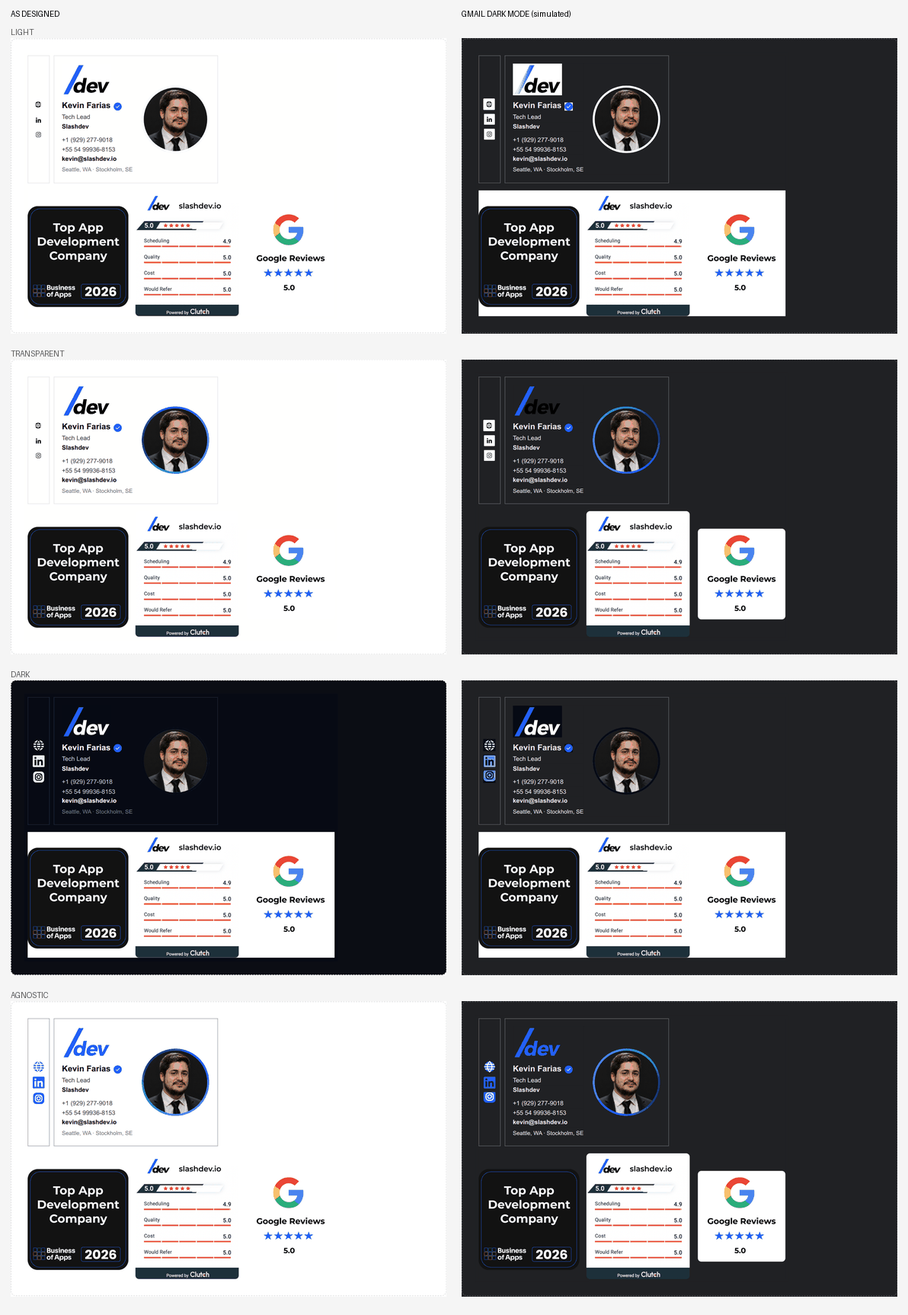
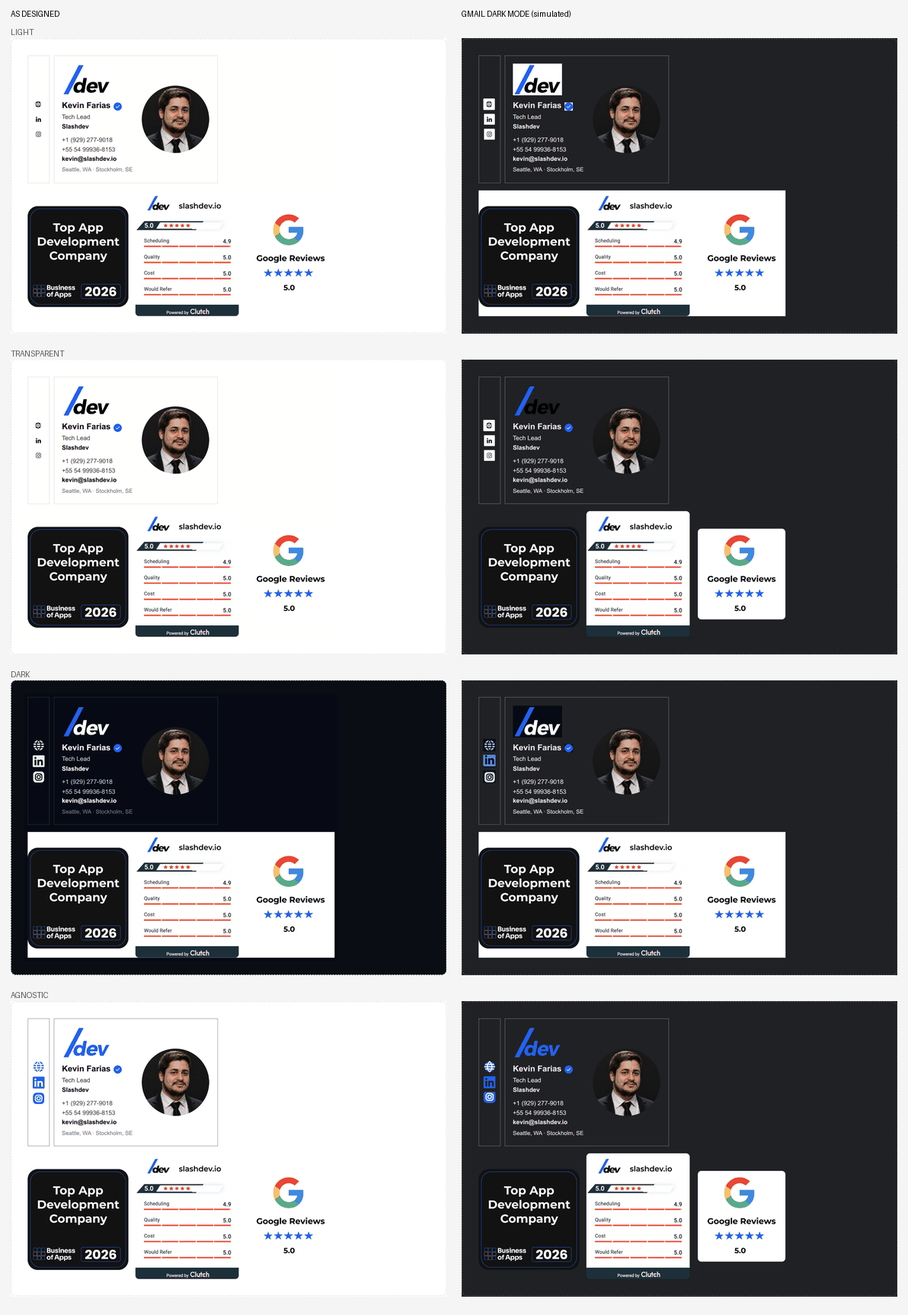
michael-light: drop the rotating ring, plain circular portrait instead
The ring was carried over from the aurora concepts and never asked for; it read
as unprofessional and it caused most of the recent trouble. The portrait is now
a static circular PNG generated straight from the source photo.

That is better on every axis. PNG alpha is 8-bit, so the edge is properly
antialiased instead of the 1-bit stair-step a GIF gives; one file works on any
background, so the avatar stops being a dark-mode problem at all; and it is
smaller — 79 KB / 111 KB against 154 KB / 162 KB for the ring GIFs, and against
the 0.9-1.2 MB the transparent ring variants weighed.

Removes the six avatar bake jobs and the four unpublished ring variants
(-t / -d). avatar-ring.gif and avatar-ring-kevin.gif are kept even though nothing
references them: they are already on Pages and any signature already pasted into
Gmail still points at them. Assets are down from 4.4 MB to 2.1 MB.

diff --git a/michael-light/dark-mode-test.html b/michael-light/dark-mode-test.html
@@ -32,7 +32,7 @@ a{color:#215ff6}</style></head>
   <td width="6" style="margin:0.1px;line-height:1px;font-size:1px">&nbsp;</td>
   <td align="left" valign="middle" style="margin:0.1px"><img alt="verified" src="https://fvlabs.github.io/michael-signatures/michael-light/assets/badge-verified.gif" width="16" height="16" style="margin:0.1px;padding:0;border:0;display:block;max-width:100%;"></td>
 </tr></tbody></table></td></tr><tr><td style="margin:0.1px;padding:3px 0 0 0;line-height:17px"><span style="margin:0;padding:0;border:0;font-family:Inter,'Helvetica Neue',Helvetica,Arial,sans-serif;font-size:12px;font-weight:normal;color:#3f3f46">Tech Lead</span></td></tr><tr><td style="margin:0.1px;padding:1px 0 0 0;line-height:17px"><span style="margin:0;padding:0;border:0;font-family:Inter,'Helvetica Neue',Helvetica,Arial,sans-serif;font-size:12px;font-weight:bold;color:#09090b">Slashdev</span></td></tr><tr><td style="margin:0.1px;padding:8px 0 0 0;line-height:17px"><a href="tel:+19292779018" target="_blank" style="margin:0;padding:0;border:0;text-decoration:none;font-family:Inter,'Helvetica Neue',Helvetica,Arial,sans-serif;font-size:12px;font-weight:normal;color:#3f3f46">+1 (929) 277-9018</a></td></tr><tr><td style="margin:0.1px;padding:1px 0 0 0;line-height:17px"><a href="tel:+5554999368153" target="_blank" style="margin:0;padding:0;border:0;text-decoration:none;font-family:Inter,'Helvetica Neue',Helvetica,Arial,sans-serif;font-size:12px;font-weight:normal;color:#3f3f46">+55 54 99936-8153</a></td></tr><tr><td style="margin:0.1px;padding:0;line-height:17px"><a href="mailto:kevin@slashdev.io" target="_blank" style="margin:0;padding:0;border:0;text-decoration:none;font-family:Inter,'Helvetica Neue',Helvetica,Arial,sans-serif;font-size:12px;font-weight:bold;color:#09090b">kevin@slashdev.io</a></td></tr><tr><td style="margin:0.1px;padding:4px 0 0 0;line-height:17px"><span style="margin:0;padding:0;border:0;font-family:Inter,'Helvetica Neue',Helvetica,Arial,sans-serif;font-size:11px;font-weight:normal;color:#71717a">Seattle, WA &middot; Stockholm, SE</span></td></tr></tbody></table></td>
-    <td align="left" valign="middle" style="margin:0.1px;padding:0 0 0 18px"><img alt="Kevin Farias" src="https://fvlabs.github.io/michael-signatures/michael-light/assets/avatar-ring-kevin.gif" width="132" height="132" style="margin:0.1px;padding:0;border:0;display:block;max-width:100%;border-radius:200px"></td>
+    <td align="left" valign="middle" style="margin:0.1px;padding:0 0 0 18px"><img alt="Kevin Farias" src="https://fvlabs.github.io/michael-signatures/michael-light/assets/avatar-kevin-round.png" width="132" height="132" style="margin:0.1px;padding:0;border:0;display:block;max-width:100%;border-radius:200px"></td>
   </tr></tbody></table></td>
 </tr></tbody></table></td></tr><tr><td style="margin:0.1px;padding:14px 0 0 0;line-height:17px"><a href="https://slashdev.io" target="_blank" style="margin:0;padding:0;border:0;text-decoration:none"><img alt="Top App Development Company 2026 (Business of Apps) — Clutch 5.0 — Google Reviews 5.0" src="https://fvlabs.github.io/michael-signatures/michael-light/assets/awards-2026.png" width="600" height="246" style="margin:0.1px;padding:0;border:0;display:block;max-width:100%;"></a></td></tr></tbody></table></td></tr></tbody></table>
 <!-- ===== END (LIGHT) ===== -->
@@ -53,7 +53,7 @@ a{color:#215ff6}</style></head>
   <td width="6" style="margin:0.1px;line-height:1px;font-size:1px">&nbsp;</td>
   <td align="left" valign="middle" style="margin:0.1px"><img alt="verified" src="https://fvlabs.github.io/michael-signatures/michael-light/assets/badge-verified-t.gif" width="16" height="16" style="margin:0.1px;padding:0;border:0;display:block;max-width:100%;"></td>
 </tr></tbody></table></td></tr><tr><td style="margin:0.1px;padding:3px 0 0 0;line-height:17px"><span style="margin:0;padding:0;border:0;font-family:Inter,'Helvetica Neue',Helvetica,Arial,sans-serif;font-size:12px;font-weight:normal;color:#3f3f46">Tech Lead</span></td></tr><tr><td style="margin:0.1px;padding:1px 0 0 0;line-height:17px"><span style="margin:0;padding:0;border:0;font-family:Inter,'Helvetica Neue',Helvetica,Arial,sans-serif;font-size:12px;font-weight:bold;color:#09090b">Slashdev</span></td></tr><tr><td style="margin:0.1px;padding:8px 0 0 0;line-height:17px"><a href="tel:+19292779018" target="_blank" style="margin:0;padding:0;border:0;text-decoration:none;font-family:Inter,'Helvetica Neue',Helvetica,Arial,sans-serif;font-size:12px;font-weight:normal;color:#3f3f46">+1 (929) 277-9018</a></td></tr><tr><td style="margin:0.1px;padding:1px 0 0 0;line-height:17px"><a href="tel:+5554999368153" target="_blank" style="margin:0;padding:0;border:0;text-decoration:none;font-family:Inter,'Helvetica Neue',Helvetica,Arial,sans-serif;font-size:12px;font-weight:normal;color:#3f3f46">+55 54 99936-8153</a></td></tr><tr><td style="margin:0.1px;padding:0;line-height:17px"><a href="mailto:kevin@slashdev.io" target="_blank" style="margin:0;padding:0;border:0;text-decoration:none;font-family:Inter,'Helvetica Neue',Helvetica,Arial,sans-serif;font-size:12px;font-weight:bold;color:#09090b">kevin@slashdev.io</a></td></tr><tr><td style="margin:0.1px;padding:4px 0 0 0;line-height:17px"><span style="margin:0;padding:0;border:0;font-family:Inter,'Helvetica Neue',Helvetica,Arial,sans-serif;font-size:11px;font-weight:normal;color:#71717a">Seattle, WA &middot; Stockholm, SE</span></td></tr></tbody></table></td>
-    <td align="left" valign="middle" style="margin:0.1px;padding:0 0 0 18px"><img alt="Kevin Farias" src="https://fvlabs.github.io/michael-signatures/michael-light/assets/avatar-ring-kevin-t.gif" width="132" height="132" style="margin:0.1px;padding:0;border:0;display:block;max-width:100%;border-radius:200px"></td>
+    <td align="left" valign="middle" style="margin:0.1px;padding:0 0 0 18px"><img alt="Kevin Farias" src="https://fvlabs.github.io/michael-signatures/michael-light/assets/avatar-kevin-round.png" width="132" height="132" style="margin:0.1px;padding:0;border:0;display:block;max-width:100%;border-radius:200px"></td>
   </tr></tbody></table></td>
 </tr></tbody></table></td></tr><tr><td style="margin:0.1px;padding:14px 0 0 0;line-height:17px"><a href="https://slashdev.io" target="_blank" style="margin:0;padding:0;border:0;text-decoration:none"><img alt="Top App Development Company 2026 (Business of Apps) — Clutch 5.0 — Google Reviews 5.0" src="https://fvlabs.github.io/michael-signatures/michael-light/assets/awards-2026-t.png" width="600" height="246" style="margin:0.1px;padding:0;border:0;display:block;max-width:100%;"></a></td></tr></tbody></table></td></tr></tbody></table>
 <!-- ===== END (TRANSPARENT) ===== -->
@@ -74,7 +74,7 @@ a{color:#215ff6}</style></head>
   <td width="6" style="margin:0.1px;line-height:1px;font-size:1px">&nbsp;</td>
   <td align="left" valign="middle" style="margin:0.1px"><img alt="verified" src="https://fvlabs.github.io/michael-signatures/michael-light/assets/badge-verified-d.gif" width="16" height="16" style="margin:0.1px;padding:0;border:0;display:block;max-width:100%;"></td>
 </tr></tbody></table></td></tr><tr><td style="margin:0.1px;padding:3px 0 0 0;line-height:17px"><span style="margin:0;padding:0;border:0;font-family:Inter,'Helvetica Neue',Helvetica,Arial,sans-serif;font-size:12px;font-weight:normal;color:#c3cbdc">Tech Lead</span></td></tr><tr><td style="margin:0.1px;padding:1px 0 0 0;line-height:17px"><span style="margin:0;padding:0;border:0;font-family:Inter,'Helvetica Neue',Helvetica,Arial,sans-serif;font-size:12px;font-weight:bold;color:#ffffff">Slashdev</span></td></tr><tr><td style="margin:0.1px;padding:8px 0 0 0;line-height:17px"><a href="tel:+19292779018" target="_blank" style="margin:0;padding:0;border:0;text-decoration:none;font-family:Inter,'Helvetica Neue',Helvetica,Arial,sans-serif;font-size:12px;font-weight:normal;color:#c3cbdc">+1 (929) 277-9018</a></td></tr><tr><td style="margin:0.1px;padding:1px 0 0 0;line-height:17px"><a href="tel:+5554999368153" target="_blank" style="margin:0;padding:0;border:0;text-decoration:none;font-family:Inter,'Helvetica Neue',Helvetica,Arial,sans-serif;font-size:12px;font-weight:normal;color:#c3cbdc">+55 54 99936-8153</a></td></tr><tr><td style="margin:0.1px;padding:0;line-height:17px"><a href="mailto:kevin@slashdev.io" target="_blank" style="margin:0;padding:0;border:0;text-decoration:none;font-family:Inter,'Helvetica Neue',Helvetica,Arial,sans-serif;font-size:12px;font-weight:bold;color:#ffffff">kevin@slashdev.io</a></td></tr><tr><td style="margin:0.1px;padding:4px 0 0 0;line-height:17px"><span style="margin:0;padding:0;border:0;font-family:Inter,'Helvetica Neue',Helvetica,Arial,sans-serif;font-size:11px;font-weight:normal;color:#727b91">Seattle, WA &middot; Stockholm, SE</span></td></tr></tbody></table></td>
-    <td align="left" valign="middle" style="margin:0.1px;padding:0 0 0 18px"><img alt="Kevin Farias" src="https://fvlabs.github.io/michael-signatures/michael-light/assets/avatar-ring-kevin-d.gif" width="132" height="132" style="margin:0.1px;padding:0;border:0;display:block;max-width:100%;border-radius:200px"></td>
+    <td align="left" valign="middle" style="margin:0.1px;padding:0 0 0 18px"><img alt="Kevin Farias" src="https://fvlabs.github.io/michael-signatures/michael-light/assets/avatar-kevin-round.png" width="132" height="132" style="margin:0.1px;padding:0;border:0;display:block;max-width:100%;border-radius:200px"></td>
   </tr></tbody></table></td>
 </tr></tbody></table></td></tr><tr><td style="margin:0.1px;padding:14px 0 0 0;line-height:17px"><a href="https://slashdev.io" target="_blank" style="margin:0;padding:0;border:0;text-decoration:none"><img alt="Top App Development Company 2026 (Business of Apps) — Clutch 5.0 — Google Reviews 5.0" src="https://fvlabs.github.io/michael-signatures/michael-light/assets/awards-2026.png" width="600" height="246" style="margin:0.1px;padding:0;border:0;display:block;max-width:100%;"></a></td></tr></tbody></table></td></tr></tbody></table>
 <!-- ===== END (DARK) ===== -->
@@ -95,7 +95,7 @@ a{color:#215ff6}</style></head>
   <td width="6" style="margin:0.1px;line-height:1px;font-size:1px">&nbsp;</td>
   <td align="left" valign="middle" style="margin:0.1px"><img alt="verified" src="https://fvlabs.github.io/michael-signatures/michael-light/assets/badge-verified-t.gif" width="16" height="16" style="margin:0.1px;padding:0;border:0;display:block;max-width:100%;"></td>
 </tr></tbody></table></td></tr><tr><td style="margin:0.1px;padding:3px 0 0 0;line-height:17px"><span style="margin:0;padding:0;border:0;font-family:Inter,'Helvetica Neue',Helvetica,Arial,sans-serif;font-size:12px;font-weight:normal;color:#3f3f46">Tech Lead</span></td></tr><tr><td style="margin:0.1px;padding:1px 0 0 0;line-height:17px"><span style="margin:0;padding:0;border:0;font-family:Inter,'Helvetica Neue',Helvetica,Arial,sans-serif;font-size:12px;font-weight:bold;color:#09090b">Slashdev</span></td></tr><tr><td style="margin:0.1px;padding:8px 0 0 0;line-height:17px"><a href="tel:+19292779018" target="_blank" style="margin:0;padding:0;border:0;text-decoration:none;font-family:Inter,'Helvetica Neue',Helvetica,Arial,sans-serif;font-size:12px;font-weight:normal;color:#3f3f46">+1 (929) 277-9018</a></td></tr><tr><td style="margin:0.1px;padding:1px 0 0 0;line-height:17px"><a href="tel:+5554999368153" target="_blank" style="margin:0;padding:0;border:0;text-decoration:none;font-family:Inter,'Helvetica Neue',Helvetica,Arial,sans-serif;font-size:12px;font-weight:normal;color:#3f3f46">+55 54 99936-8153</a></td></tr><tr><td style="margin:0.1px;padding:0;line-height:17px"><a href="mailto:kevin@slashdev.io" target="_blank" style="margin:0;padding:0;border:0;text-decoration:none;font-family:Inter,'Helvetica Neue',Helvetica,Arial,sans-serif;font-size:12px;font-weight:bold;color:#09090b">kevin@slashdev.io</a></td></tr><tr><td style="margin:0.1px;padding:4px 0 0 0;line-height:17px"><span style="margin:0;padding:0;border:0;font-family:Inter,'Helvetica Neue',Helvetica,Arial,sans-serif;font-size:11px;font-weight:normal;color:#71717a">Seattle, WA &middot; Stockholm, SE</span></td></tr></tbody></table></td>
-    <td align="left" valign="middle" style="margin:0.1px;padding:0 0 0 18px"><img alt="Kevin Farias" src="https://fvlabs.github.io/michael-signatures/michael-light/assets/avatar-ring-kevin-t.gif" width="132" height="132" style="margin:0.1px;padding:0;border:0;display:block;max-width:100%;border-radius:200px"></td>
+    <td align="left" valign="middle" style="margin:0.1px;padding:0 0 0 18px"><img alt="Kevin Farias" src="https://fvlabs.github.io/michael-signatures/michael-light/assets/avatar-kevin-round.png" width="132" height="132" style="margin:0.1px;padding:0;border:0;display:block;max-width:100%;border-radius:200px"></td>
   </tr></tbody></table></td>
 </tr></tbody></table></td></tr><tr><td style="margin:0.1px;padding:14px 0 0 0;line-height:17px"><a href="https://slashdev.io" target="_blank" style="margin:0;padding:0;border:0;text-decoration:none"><img alt="Top App Development Company 2026 (Business of Apps) — Clutch 5.0 — Google Reviews 5.0" src="https://fvlabs.github.io/michael-signatures/michael-light/assets/awards-2026-t.png" width="600" height="246" style="margin:0.1px;padding:0;border:0;display:block;max-width:100%;"></a></td></tr></tbody></table></td></tr></tbody></table>
 <!-- ===== END (AGNOSTIC) ===== -->

diff --git a/michael-light/L1-two-panel.html b/michael-light/L1-two-panel.html
@@ -29,7 +29,7 @@ a{color:#215ff6}</style></head>
   <td width="6" style="margin:0.1px;line-height:1px;font-size:1px">&nbsp;</td>
   <td align="left" valign="middle" style="margin:0.1px"><img alt="verified" src="https://fvlabs.github.io/michael-signatures/michael-light/assets/badge-verified.gif" width="16" height="16" style="margin:0.1px;padding:0;border:0;display:block;max-width:100%;"></td>
 </tr></tbody></table></td></tr><tr><td style="margin:0.1px;padding:3px 0 0 0;line-height:17px"><span style="margin:0;padding:0;border:0;font-family:Inter,'Helvetica Neue',Helvetica,Arial,sans-serif;font-size:12px;font-weight:normal;color:#3f3f46">Founder &amp; CEO</span></td></tr><tr><td style="margin:0.1px;padding:1px 0 0 0;line-height:17px"><span style="margin:0;padding:0;border:0;font-family:Inter,'Helvetica Neue',Helvetica,Arial,sans-serif;font-size:12px;font-weight:bold;color:#09090b">Slashdev</span></td></tr><tr><td style="margin:0.1px;padding:8px 0 0 0;line-height:17px"><a href="tel:+19292779018" target="_blank" style="margin:0;padding:0;border:0;text-decoration:none;font-family:Inter,'Helvetica Neue',Helvetica,Arial,sans-serif;font-size:12px;font-weight:normal;color:#3f3f46">+1 (929) 277-9018</a></td></tr><tr><td style="margin:0.1px;padding:1px 0 0 0;line-height:17px"><a href="tel:+46703688988" target="_blank" style="margin:0;padding:0;border:0;text-decoration:none;font-family:Inter,'Helvetica Neue',Helvetica,Arial,sans-serif;font-size:12px;font-weight:normal;color:#3f3f46">+46 70 368 8988</a></td></tr><tr><td style="margin:0.1px;padding:0;line-height:17px"><a href="mailto:michael@slashdev.io" target="_blank" style="margin:0;padding:0;border:0;text-decoration:none;font-family:Inter,'Helvetica Neue',Helvetica,Arial,sans-serif;font-size:12px;font-weight:bold;color:#09090b">michael@slashdev.io</a></td></tr><tr><td style="margin:0.1px;padding:4px 0 0 0;line-height:17px"><span style="margin:0;padding:0;border:0;font-family:Inter,'Helvetica Neue',Helvetica,Arial,sans-serif;font-size:11px;font-weight:normal;color:#71717a">Seattle, WA &middot; Stockholm, SE</span></td></tr></tbody></table></td>
-    <td align="left" valign="middle" style="margin:0.1px;padding:0 0 0 18px"><img alt="Michael Ballard" src="https://fvlabs.github.io/michael-signatures/michael-light/assets/avatar-ring.gif" width="132" height="132" style="margin:0.1px;padding:0;border:0;display:block;max-width:100%;border-radius:200px"></td>
+    <td align="left" valign="middle" style="margin:0.1px;padding:0 0 0 18px"><img alt="Michael Ballard" src="https://fvlabs.github.io/michael-signatures/michael-light/assets/avatar-michael-round.png" width="132" height="132" style="margin:0.1px;padding:0;border:0;display:block;max-width:100%;border-radius:200px"></td>
   </tr></tbody></table></td>
 </tr></tbody></table></td></tr><tr><td style="margin:0.1px;padding:14px 0 0 0;line-height:17px"><a href="https://slashdev.io" target="_blank" style="margin:0;padding:0;border:0;text-decoration:none"><img alt="Top App Development Company 2026 (Business of Apps) — Clutch 5.0 — Google Reviews 5.0" src="https://fvlabs.github.io/michael-signatures/michael-light/assets/awards-2026.png" width="600" height="246" style="margin:0.1px;padding:0;border:0;display:block;max-width:100%;"></a></td></tr></tbody></table></td></tr></tbody></table>
 <!-- ===== END (MICHAEL) ===== -->
@@ -49,7 +49,7 @@ a{color:#215ff6}</style></head>
   <td width="6" style="margin:0.1px;line-height:1px;font-size:1px">&nbsp;</td>
   <td align="left" valign="middle" style="margin:0.1px"><img alt="verified" src="https://fvlabs.github.io/michael-signatures/michael-light/assets/badge-verified.gif" width="16" height="16" style="margin:0.1px;padding:0;border:0;display:block;max-width:100%;"></td>
 </tr></tbody></table></td></tr><tr><td style="margin:0.1px;padding:3px 0 0 0;line-height:17px"><span style="margin:0;padding:0;border:0;font-family:Inter,'Helvetica Neue',Helvetica,Arial,sans-serif;font-size:12px;font-weight:normal;color:#3f3f46">Tech Lead</span></td></tr><tr><td style="margin:0.1px;padding:1px 0 0 0;line-height:17px"><span style="margin:0;padding:0;border:0;font-family:Inter,'Helvetica Neue',Helvetica,Arial,sans-serif;font-size:12px;font-weight:bold;color:#09090b">Slashdev</span></td></tr><tr><td style="margin:0.1px;padding:8px 0 0 0;line-height:17px"><a href="tel:+19292779018" target="_blank" style="margin:0;padding:0;border:0;text-decoration:none;font-family:Inter,'Helvetica Neue',Helvetica,Arial,sans-serif;font-size:12px;font-weight:normal;color:#3f3f46">+1 (929) 277-9018</a></td></tr><tr><td style="margin:0.1px;padding:1px 0 0 0;line-height:17px"><a href="tel:+5554999368153" target="_blank" style="margin:0;padding:0;border:0;text-decoration:none;font-family:Inter,'Helvetica Neue',Helvetica,Arial,sans-serif;font-size:12px;font-weight:normal;color:#3f3f46">+55 54 99936-8153</a></td></tr><tr><td style="margin:0.1px;padding:0;line-height:17px"><a href="mailto:kevin@slashdev.io" target="_blank" style="margin:0;padding:0;border:0;text-decoration:none;font-family:Inter,'Helvetica Neue',Helvetica,Arial,sans-serif;font-size:12px;font-weight:bold;color:#09090b">kevin@slashdev.io</a></td></tr><tr><td style="margin:0.1px;padding:4px 0 0 0;line-height:17px"><span style="margin:0;padding:0;border:0;font-family:Inter,'Helvetica Neue',Helvetica,Arial,sans-serif;font-size:11px;font-weight:normal;color:#71717a">Seattle, WA &middot; Stockholm, SE</span></td></tr></tbody></table></td>
-    <td align="left" valign="middle" style="margin:0.1px;padding:0 0 0 18px"><img alt="Kevin Farias" src="https://fvlabs.github.io/michael-signatures/michael-light/assets/avatar-ring-kevin.gif" width="132" height="132" style="margin:0.1px;padding:0;border:0;display:block;max-width:100%;border-radius:200px"></td>
+    <td align="left" valign="middle" style="margin:0.1px;padding:0 0 0 18px"><img alt="Kevin Farias" src="https://fvlabs.github.io/michael-signatures/michael-light/assets/avatar-kevin-round.png" width="132" height="132" style="margin:0.1px;padding:0;border:0;display:block;max-width:100%;border-radius:200px"></td>
   </tr></tbody></table></td>
 </tr></tbody></table></td></tr><tr><td style="margin:0.1px;padding:14px 0 0 0;line-height:17px"><a href="https://slashdev.io" target="_blank" style="margin:0;padding:0;border:0;text-decoration:none"><img alt="Top App Development Company 2026 (Business of Apps) — Clutch 5.0 — Google Reviews 5.0" src="https://fvlabs.github.io/michael-signatures/michael-light/assets/awards-2026.png" width="600" height="246" style="margin:0.1px;padding:0;border:0;display:block;max-width:100%;"></a></td></tr></tbody></table></td></tr></tbody></table>
 <!-- ===== END (KEVIN) ===== -->

diff --git a/michael-light/index.html b/michael-light/index.html
@@ -29,7 +29,7 @@ a{color:#215ff6}</style></head>
   <td width="6" style="margin:0.1px;line-height:1px;font-size:1px">&nbsp;</td>
   <td align="left" valign="middle" style="margin:0.1px"><img alt="verified" src="https://fvlabs.github.io/michael-signatures/michael-light/assets/badge-verified.gif" width="16" height="16" style="margin:0.1px;padding:0;border:0;display:block;max-width:100%;"></td>
 </tr></tbody></table></td></tr><tr><td style="margin:0.1px;padding:3px 0 0 0;line-height:17px"><span style="margin:0;padding:0;border:0;font-family:Inter,'Helvetica Neue',Helvetica,Arial,sans-serif;font-size:12px;font-weight:normal;color:#3f3f46">Founder &amp; CEO</span></td></tr><tr><td style="margin:0.1px;padding:1px 0 0 0;line-height:17px"><span style="margin:0;padding:0;border:0;font-family:Inter,'Helvetica Neue',Helvetica,Arial,sans-serif;font-size:12px;font-weight:bold;color:#09090b">Slashdev</span></td></tr><tr><td style="margin:0.1px;padding:8px 0 0 0;line-height:17px"><a href="tel:+19292779018" target="_blank" style="margin:0;padding:0;border:0;text-decoration:none;font-family:Inter,'Helvetica Neue',Helvetica,Arial,sans-serif;font-size:12px;font-weight:normal;color:#3f3f46">+1 (929) 277-9018</a></td></tr><tr><td style="margin:0.1px;padding:1px 0 0 0;line-height:17px"><a href="tel:+46703688988" target="_blank" style="margin:0;padding:0;border:0;text-decoration:none;font-family:Inter,'Helvetica Neue',Helvetica,Arial,sans-serif;font-size:12px;font-weight:normal;color:#3f3f46">+46 70 368 8988</a></td></tr><tr><td style="margin:0.1px;padding:0;line-height:17px"><a href="mailto:michael@slashdev.io" target="_blank" style="margin:0;padding:0;border:0;text-decoration:none;font-family:Inter,'Helvetica Neue',Helvetica,Arial,sans-serif;font-size:12px;font-weight:bold;color:#09090b">michael@slashdev.io</a></td></tr><tr><td style="margin:0.1px;padding:4px 0 0 0;line-height:17px"><span style="margin:0;padding:0;border:0;font-family:Inter,'Helvetica Neue',Helvetica,Arial,sans-serif;font-size:11px;font-weight:normal;color:#71717a">Seattle, WA &middot; Stockholm, SE</span></td></tr></tbody></table></td>
-    <td align="left" valign="middle" style="margin:0.1px;padding:0 0 0 18px"><img alt="Michael Ballard" src="https://fvlabs.github.io/michael-signatures/michael-light/assets/avatar-ring.gif" width="132" height="132" style="margin:0.1px;padding:0;border:0;display:block;max-width:100%;border-radius:200px"></td>
+    <td align="left" valign="middle" style="margin:0.1px;padding:0 0 0 18px"><img alt="Michael Ballard" src="https://fvlabs.github.io/michael-signatures/michael-light/assets/avatar-michael-round.png" width="132" height="132" style="margin:0.1px;padding:0;border:0;display:block;max-width:100%;border-radius:200px"></td>
   </tr></tbody></table></td>
 </tr></tbody></table></td></tr><tr><td style="margin:0.1px;padding:14px 0 0 0;line-height:17px"><a href="https://slashdev.io" target="_blank" style="margin:0;padding:0;border:0;text-decoration:none"><img alt="Top App Development Company 2026 (Business of Apps) — Clutch 5.0 — Google Reviews 5.0" src="https://fvlabs.github.io/michael-signatures/michael-light/assets/awards-2026.png" width="600" height="246" style="margin:0.1px;padding:0;border:0;display:block;max-width:100%;"></a></td></tr></tbody></table></td></tr></tbody></table>
 <!-- ===== END (MICHAEL) ===== -->
@@ -49,7 +49,7 @@ a{color:#215ff6}</style></head>
   <td width="6" style="margin:0.1px;line-height:1px;font-size:1px">&nbsp;</td>
   <td align="left" valign="middle" style="margin:0.1px"><img alt="verified" src="https://fvlabs.github.io/michael-signatures/michael-light/assets/badge-verified.gif" width="16" height="16" style="margin:0.1px;padding:0;border:0;display:block;max-width:100%;"></td>
 </tr></tbody></table></td></tr><tr><td style="margin:0.1px;padding:3px 0 0 0;line-height:17px"><span style="margin:0;padding:0;border:0;font-family:Inter,'Helvetica Neue',Helvetica,Arial,sans-serif;font-size:12px;font-weight:normal;color:#3f3f46">Tech Lead</span></td></tr><tr><td style="margin:0.1px;padding:1px 0 0 0;line-height:17px"><span style="margin:0;padding:0;border:0;font-family:Inter,'Helvetica Neue',Helvetica,Arial,sans-serif;font-size:12px;font-weight:bold;color:#09090b">Slashdev</span></td></tr><tr><td style="margin:0.1px;padding:8px 0 0 0;line-height:17px"><a href="tel:+19292779018" target="_blank" style="margin:0;padding:0;border:0;text-decoration:none;font-family:Inter,'Helvetica Neue',Helvetica,Arial,sans-serif;font-size:12px;font-weight:normal;color:#3f3f46">+1 (929) 277-9018</a></td></tr><tr><td style="margin:0.1px;padding:1px 0 0 0;line-height:17px"><a href="tel:+5554999368153" target="_blank" style="margin:0;padding:0;border:0;text-decoration:none;font-family:Inter,'Helvetica Neue',Helvetica,Arial,sans-serif;font-size:12px;font-weight:normal;color:#3f3f46">+55 54 99936-8153</a></td></tr><tr><td style="margin:0.1px;padding:0;line-height:17px"><a href="mailto:kevin@slashdev.io" target="_blank" style="margin:0;padding:0;border:0;text-decoration:none;font-family:Inter,'Helvetica Neue',Helvetica,Arial,sans-serif;font-size:12px;font-weight:bold;color:#09090b">kevin@slashdev.io</a></td></tr><tr><td style="margin:0.1px;padding:4px 0 0 0;line-height:17px"><span style="margin:0;padding:0;border:0;font-family:Inter,'Helvetica Neue',Helvetica,Arial,sans-serif;font-size:11px;font-weight:normal;color:#71717a">Seattle, WA &middot; Stockholm, SE</span></td></tr></tbody></table></td>
-    <td align="left" valign="middle" style="margin:0.1px;padding:0 0 0 18px"><img alt="Kevin Farias" src="https://fvlabs.github.io/michael-signatures/michael-light/assets/avatar-ring-kevin.gif" width="132" height="132" style="margin:0.1px;padding:0;border:0;display:block;max-width:100%;border-radius:200px"></td>
+    <td align="left" valign="middle" style="margin:0.1px;padding:0 0 0 18px"><img alt="Kevin Farias" src="https://fvlabs.github.io/michael-signatures/michael-light/assets/avatar-kevin-round.png" width="132" height="132" style="margin:0.1px;padding:0;border:0;display:block;max-width:100%;border-radius:200px"></td>
   </tr></tbody></table></td>
 </tr></tbody></table></td></tr><tr><td style="margin:0.1px;padding:14px 0 0 0;line-height:17px"><a href="https://slashdev.io" target="_blank" style="margin:0;padding:0;border:0;text-decoration:none"><img alt="Top App Development Company 2026 (Business of Apps) — Clutch 5.0 — Google Reviews 5.0" src="https://fvlabs.github.io/michael-signatures/michael-light/assets/awards-2026.png" width="600" height="246" style="margin:0.1px;padding:0;border:0;display:block;max-width:100%;"></a></td></tr></tbody></table></td></tr></tbody></table>
 <!-- ===== END (KEVIN) ===== -->

diff --git a/michael-light/kevin.html b/michael-light/kevin.html
@@ -29,7 +29,7 @@ a{color:#215ff6}</style></head>
   <td width="6" style="margin:0.1px;line-height:1px;font-size:1px">&nbsp;</td>
   <td align="left" valign="middle" style="margin:0.1px"><img alt="verified" src="https://fvlabs.github.io/michael-signatures/michael-light/assets/badge-verified.gif" width="16" height="16" style="margin:0.1px;padding:0;border:0;display:block;max-width:100%;"></td>
 </tr></tbody></table></td></tr><tr><td style="margin:0.1px;padding:3px 0 0 0;line-height:17px"><span style="margin:0;padding:0;border:0;font-family:Inter,'Helvetica Neue',Helvetica,Arial,sans-serif;font-size:12px;font-weight:normal;color:#3f3f46">Founder &amp; CEO</span></td></tr><tr><td style="margin:0.1px;padding:1px 0 0 0;line-height:17px"><span style="margin:0;padding:0;border:0;font-family:Inter,'Helvetica Neue',Helvetica,Arial,sans-serif;font-size:12px;font-weight:bold;color:#09090b">Slashdev</span></td></tr><tr><td style="margin:0.1px;padding:8px 0 0 0;line-height:17px"><a href="tel:+19292779018" target="_blank" style="margin:0;padding:0;border:0;text-decoration:none;font-family:Inter,'Helvetica Neue',Helvetica,Arial,sans-serif;font-size:12px;font-weight:normal;color:#3f3f46">+1 (929) 277-9018</a></td></tr><tr><td style="margin:0.1px;padding:1px 0 0 0;line-height:17px"><a href="tel:+46703688988" target="_blank" style="margin:0;padding:0;border:0;text-decoration:none;font-family:Inter,'Helvetica Neue',Helvetica,Arial,sans-serif;font-size:12px;font-weight:normal;color:#3f3f46">+46 70 368 8988</a></td></tr><tr><td style="margin:0.1px;padding:0;line-height:17px"><a href="mailto:michael@slashdev.io" target="_blank" style="margin:0;padding:0;border:0;text-decoration:none;font-family:Inter,'Helvetica Neue',Helvetica,Arial,sans-serif;font-size:12px;font-weight:bold;color:#09090b">michael@slashdev.io</a></td></tr><tr><td style="margin:0.1px;padding:4px 0 0 0;line-height:17px"><span style="margin:0;padding:0;border:0;font-family:Inter,'Helvetica Neue',Helvetica,Arial,sans-serif;font-size:11px;font-weight:normal;color:#71717a">Seattle, WA &middot; Stockholm, SE</span></td></tr></tbody></table></td>
-    <td align="left" valign="middle" style="margin:0.1px;padding:0 0 0 18px"><img alt="Michael Ballard" src="https://fvlabs.github.io/michael-signatures/michael-light/assets/avatar-ring.gif" width="132" height="132" style="margin:0.1px;padding:0;border:0;display:block;max-width:100%;border-radius:200px"></td>
+    <td align="left" valign="middle" style="margin:0.1px;padding:0 0 0 18px"><img alt="Michael Ballard" src="https://fvlabs.github.io/michael-signatures/michael-light/assets/avatar-michael-round.png" width="132" height="132" style="margin:0.1px;padding:0;border:0;display:block;max-width:100%;border-radius:200px"></td>
   </tr></tbody></table></td>
 </tr></tbody></table></td></tr><tr><td style="margin:0.1px;padding:14px 0 0 0;line-height:17px"><a href="https://slashdev.io" target="_blank" style="margin:0;padding:0;border:0;text-decoration:none"><img alt="Top App Development Company 2026 (Business of Apps) — Clutch 5.0 — Google Reviews 5.0" src="https://fvlabs.github.io/michael-signatures/michael-light/assets/awards-2026.png" width="600" height="246" style="margin:0.1px;padding:0;border:0;display:block;max-width:100%;"></a></td></tr></tbody></table></td></tr></tbody></table>
 <!-- ===== END (MICHAEL) ===== -->
@@ -49,7 +49,7 @@ a{color:#215ff6}</style></head>
   <td width="6" style="margin:0.1px;line-height:1px;font-size:1px">&nbsp;</td>
   <td align="left" valign="middle" style="margin:0.1px"><img alt="verified" src="https://fvlabs.github.io/michael-signatures/michael-light/assets/badge-verified.gif" width="16" height="16" style="margin:0.1px;padding:0;border:0;display:block;max-width:100%;"></td>
 </tr></tbody></table></td></tr><tr><td style="margin:0.1px;padding:3px 0 0 0;line-height:17px"><span style="margin:0;padding:0;border:0;font-family:Inter,'Helvetica Neue',Helvetica,Arial,sans-serif;font-size:12px;font-weight:normal;color:#3f3f46">Tech Lead</span></td></tr><tr><td style="margin:0.1px;padding:1px 0 0 0;line-height:17px"><span style="margin:0;padding:0;border:0;font-family:Inter,'Helvetica Neue',Helvetica,Arial,sans-serif;font-size:12px;font-weight:bold;color:#09090b">Slashdev</span></td></tr><tr><td style="margin:0.1px;padding:8px 0 0 0;line-height:17px"><a href="tel:+19292779018" target="_blank" style="margin:0;padding:0;border:0;text-decoration:none;font-family:Inter,'Helvetica Neue',Helvetica,Arial,sans-serif;font-size:12px;font-weight:normal;color:#3f3f46">+1 (929) 277-9018</a></td></tr><tr><td style="margin:0.1px;padding:1px 0 0 0;line-height:17px"><a href="tel:+5554999368153" target="_blank" style="margin:0;padding:0;border:0;text-decoration:none;font-family:Inter,'Helvetica Neue',Helvetica,Arial,sans-serif;font-size:12px;font-weight:normal;color:#3f3f46">+55 54 99936-8153</a></td></tr><tr><td style="margin:0.1px;padding:0;line-height:17px"><a href="mailto:kevin@slashdev.io" target="_blank" style="margin:0;padding:0;border:0;text-decoration:none;font-family:Inter,'Helvetica Neue',Helvetica,Arial,sans-serif;font-size:12px;font-weight:bold;color:#09090b">kevin@slashdev.io</a></td></tr><tr><td style="margin:0.1px;padding:4px 0 0 0;line-height:17px"><span style="margin:0;padding:0;border:0;font-family:Inter,'Helvetica Neue',Helvetica,Arial,sans-serif;font-size:11px;font-weight:normal;color:#71717a">Seattle, WA &middot; Stockholm, SE</span></td></tr></tbody></table></td>
-    <td align="left" valign="middle" style="margin:0.1px;padding:0 0 0 18px"><img alt="Kevin Farias" src="https://fvlabs.github.io/michael-signatures/michael-light/assets/avatar-ring-kevin.gif" width="132" height="132" style="margin:0.1px;padding:0;border:0;display:block;max-width:100%;border-radius:200px"></td>
+    <td align="left" valign="middle" style="margin:0.1px;padding:0 0 0 18px"><img alt="Kevin Farias" src="https://fvlabs.github.io/michael-signatures/michael-light/assets/avatar-kevin-round.png" width="132" height="132" style="margin:0.1px;padding:0;border:0;display:block;max-width:100%;border-radius:200px"></td>
   </tr></tbody></table></td>
 </tr></tbody></table></td></tr><tr><td style="margin:0.1px;padding:14px 0 0 0;line-height:17px"><a href="https://slashdev.io" target="_blank" style="margin:0;padding:0;border:0;text-decoration:none"><img alt="Top App Development Company 2026 (Business of Apps) — Clutch 5.0 — Google Reviews 5.0" src="https://fvlabs.github.io/michael-signatures/michael-light/assets/awards-2026.png" width="600" height="246" style="margin:0.1px;padding:0;border:0;display:block;max-width:100%;"></a></td></tr></tbody></table></td></tr></tbody></table>
 <!-- ===== END (KEVIN) ===== -->

diff --git a/michael-light/src/bake.js b/michael-light/src/bake.js
@@ -14,6 +14,10 @@ const TMP = '/tmp/light-frames';
 
 /* scale = deviceScaleFactor: the GIF is baked at scale× and displayed at 1×,
    so the glyphs stay crisp on high-DPI mail clients. */
+/* No avatar jobs: the portrait is a static circular PNG generated straight from
+   the source photo (see the round_avatar step in git history), because the
+   rotating ring is gone. avatar.html and the baked ring GIFs are kept — the GIFs
+   because signatures already pasted into Gmail still reference them. */
 const jobs = [
   /* slot = position in the cascade. Both icon sets share web (1) and linkedin (2);
      x/github and instagram/facebook are the interchangeable 3rd and 4th. */
@@ -24,8 +28,6 @@ const jobs = [
   { file: 'social.html', out: 'ic-instagram.gif', fps: 12, scale: 3, query: '?icon=instagram&slot=3' },
   { file: 'social.html', out: 'ic-facebook.gif',  fps: 12, scale: 3, query: '?icon=facebook&slot=4' },
   { file: 'badge.html',  out: 'badge-verified.gif', fps: 12, scale: 3 },
-  { file: 'avatar.html', out: 'avatar-ring.gif', fps: 16 },
-  { file: 'avatar.html', out: 'avatar-ring-kevin.gif', fps: 16, query: '?photo=kevin.png' },
   { file: 'logo.html',   out: 'logo-shine.gif',  fps: 12 },
 
   /* ---- dark-mode test variants (see src/build.js THEMES) ----
@@ -34,13 +36,9 @@ const jobs = [
   { file: 'social.html', out: 'ic-dark-linkedin.gif',  fps: 12, scale: 3, query: '?icon=linkedin&slot=2&theme=dark' },
   { file: 'social.html', out: 'ic-dark-instagram.gif', fps: 12, scale: 3, query: '?icon=instagram&slot=3&theme=dark' },
   { file: 'badge.html',  out: 'badge-verified-d.gif',  fps: 12, scale: 3, query: '?theme=dark' },
-  { file: 'avatar.html', out: 'avatar-ring-d.gif',       fps: 16, query: '?theme=dark' },
-  { file: 'avatar.html', out: 'avatar-ring-kevin-d.gif', fps: 16, query: '?photo=kevin.png&theme=dark' },
   { file: 'logo.html',   out: 'logo-shine-d.gif',      fps: 12, query: '?theme=dark' },
 
   { file: 'badge.html',  out: 'badge-verified-t.gif',  fps: 12, scale: 3, query: '?theme=none', alpha: true },
-  { file: 'avatar.html', out: 'avatar-ring-t.gif',       fps: 16, query: '?theme=none', alpha: true },
-  { file: 'avatar.html', out: 'avatar-ring-kevin-t.gif', fps: 16, query: '?photo=kevin.png&theme=none', alpha: true },
   { file: 'logo.html',   out: 'logo-shine-t.gif',      fps: 12, query: '?theme=none', alpha: true },
 
   /* theme-agnostic (-a): transparent, and every colour chosen to read on white

diff --git a/michael-light/src/build.js b/michael-light/src/build.js
@@ -111,7 +111,7 @@ const PEOPLE = [
     name: 'Michael Ballard',
     role: 'Founder &amp; CEO',
     company: 'Slashdev',
-    photo: '',                    // avatar-ring.gif
+    slug: 'michael',
     phones: [PHONE_US, { href: 'tel:+46703688988', label: '+46 70 368 8988' }],
     email: { href: 'mailto:michael@slashdev.io', label: 'michael@slashdev.io' },
     location: 'Seattle, WA &middot; Stockholm, SE',
@@ -128,7 +128,7 @@ const PEOPLE = [
     name: 'Kevin Farias',
     role: 'Tech Lead',
     company: 'Slashdev',
-    photo: '-kevin',              // avatar-ring-kevin.gif
+    slug: 'kevin',
     phones: [PHONE_US, { href: 'tel:+5554999368153', label: '+55 54 99936-8153' }],
     email: { href: 'mailto:kevin@slashdev.io', label: 'kevin@slashdev.io' },
     location: 'Seattle, WA &middot; Stockholm, SE',
@@ -170,7 +170,12 @@ const panel = (inner, pad = '15px', valign = 'top') =>
   `<td${bgAttr()} valign="${valign}" align="left" style="margin:0.1px;padding:${pad};${bgCss()}border:1px solid ${T.border};border-collapse:separate;border-radius:6px">${inner}</td>`;
 
 const logo = () => img(T.logo || `assets/logo-shine${T.suffix}.gif`, 96, 62, 'slashdev');
-const avatar = (p) => img(`assets/avatar-ring${p.photo}${T.suffix}.gif`, 132, 132, p.name, 'border-radius:200px');
+/* Plain circular portrait, one file for every theme. PNG alpha is 8-bit so the
+   edge is properly antialiased — unlike the 1-bit GIF alpha that chopped the old
+   rotating ring into an arc. The ring is gone: it was carried over from the
+   aurora concepts, never asked for, and read as unprofessional. border-radius
+   stays as a belt-and-braces measure for clients that ignore alpha. */
+const avatar = (p) => img(`assets/avatar-${p.slug}-round.png`, 132, 132, p.name, 'border-radius:200px');
 const badge = () => img(`assets/badge-verified${T.suffix}.gif`, 16, 16, 'verified');
 
 /* name + animated verified tick */
